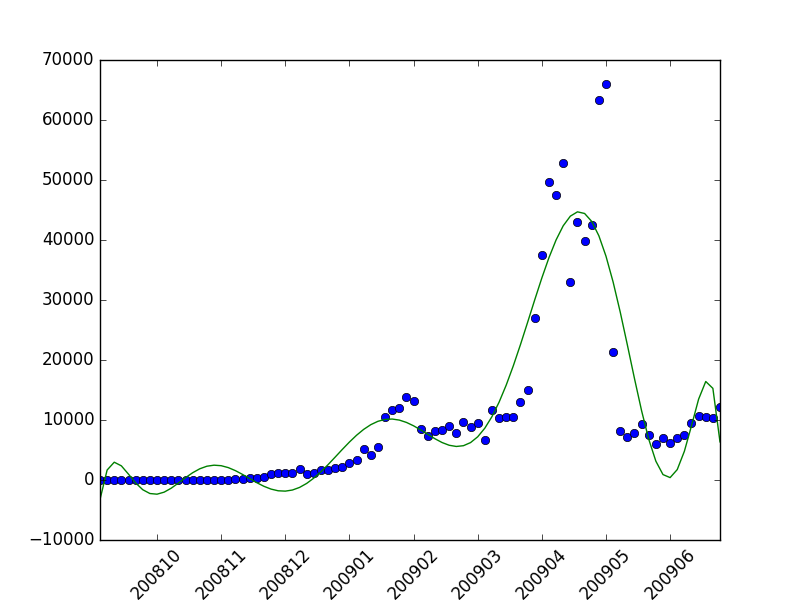
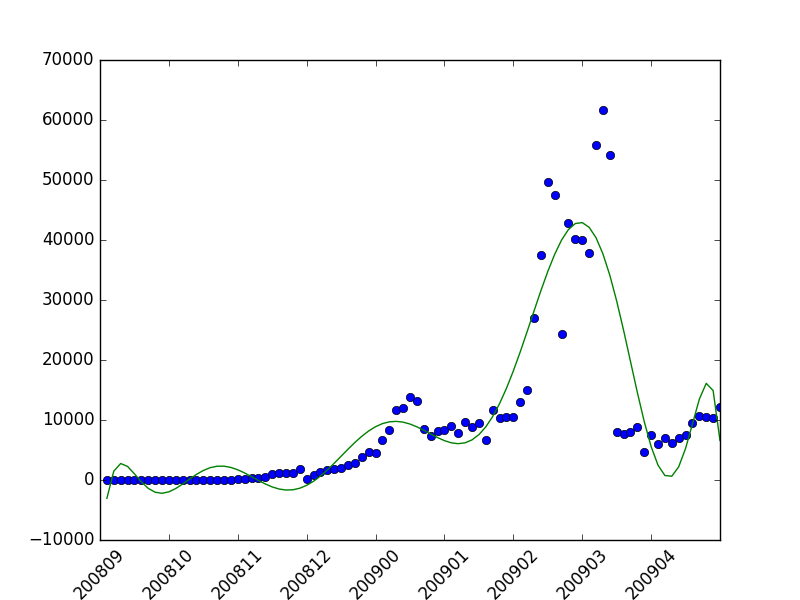
dummie commit

diff --git a/Android_CVE_Malware_Corelation/event_family_malware.py b/Android_CVE_Malware_Corelation/event_family_malware.py
@@ -109,6 +109,7 @@ for i in all_data:
         for j in range(0, len(event_time)):
             dict_slope[i[2]].append(0)
 
+fake_inst_dates = []
 print 'performing computation ...'
 for idx, event in enumerate(event_time):
     dict_slopes = {}
@@ -129,7 +130,8 @@ for idx, event in enumerate(event_time):
                 dict_day_interval[family] = []
             if dict_count.get(family) is None:
                 dict_count[family] = 0
-
+            if family == 'fakeinst':
+                fake_inst_dates.append(date)
             if date == dict_current_time[family]:
                 dict_count[family] += 1
             elif date > dict_current_time[family]:
@@ -165,12 +167,29 @@ for i in dict_slope:
 
 output_file.close()
 
+significant_events_s = set()
+sig_vul_count = 0
+sig_and_count = 0
 print 'writing the output 1 file ...'
 significant_points.sort()
 output_file_1 = open(OUTPUT_FILE_1, 'w+')
 
 for i in significant_points:
     line = str(i[0]) + ' ' + str(i[2]) + ' ' + str(dict_events[i[1]]) + '\n'
+    if type(dict_events[i[1]]) is list:
+        for j in dict_events[i[1]]:
+            significant_events_s.add(j)
+            sig_vul_count += 1
+    else:
+        significant_events_s.add(dict_events[i[1]])
+        sig_and_count += 1
     output_file_1.write(line)
 
 output_file_1.close()
+
+fake_inst_dates.sort()
+print "first fake_inst date: ", fake_inst_dates[0]
+print len(significant_events_s), " significant events"
+print sig_vul_count, "+++", sig_and_count
+print float(sig_vul_count / (sig_and_count + sig_vul_count)) * 100, "% related to vul"
+

diff --git a/Android_CVE_Malware_Corelation/poly_regression.py b/Android_CVE_Malware_Corelation/poly_regression.py
@@ -65,8 +65,8 @@ for i in times:
 
 plot(x, y, 'o')
 plot(x, polyval(poly_reg, x))
-xticks(range(0, len(x_ticks)), x_ticks, rotation=45)
-locator_params(axis='x', nbins=10)
+xticks(range(0, len(x_ticks), 10), x_ticks, rotation=45)
+# locator_params(axis='x', nbins=10)
 
 print times
 print x_ticks

diff --git a/Android_CVE_Malware_Corelation/util.py b/Android_CVE_Malware_Corelation/util.py
@@ -3,8 +3,8 @@ def calibrate_time(time):
     month_day = time % 10000
 
     while month_day > 1231:
-        years = month_day/1200
-        month_day %= 1200
+        years = month_day/1231
+        month_day %= 1231
         year += years
 
     return year*10000 + month_day
